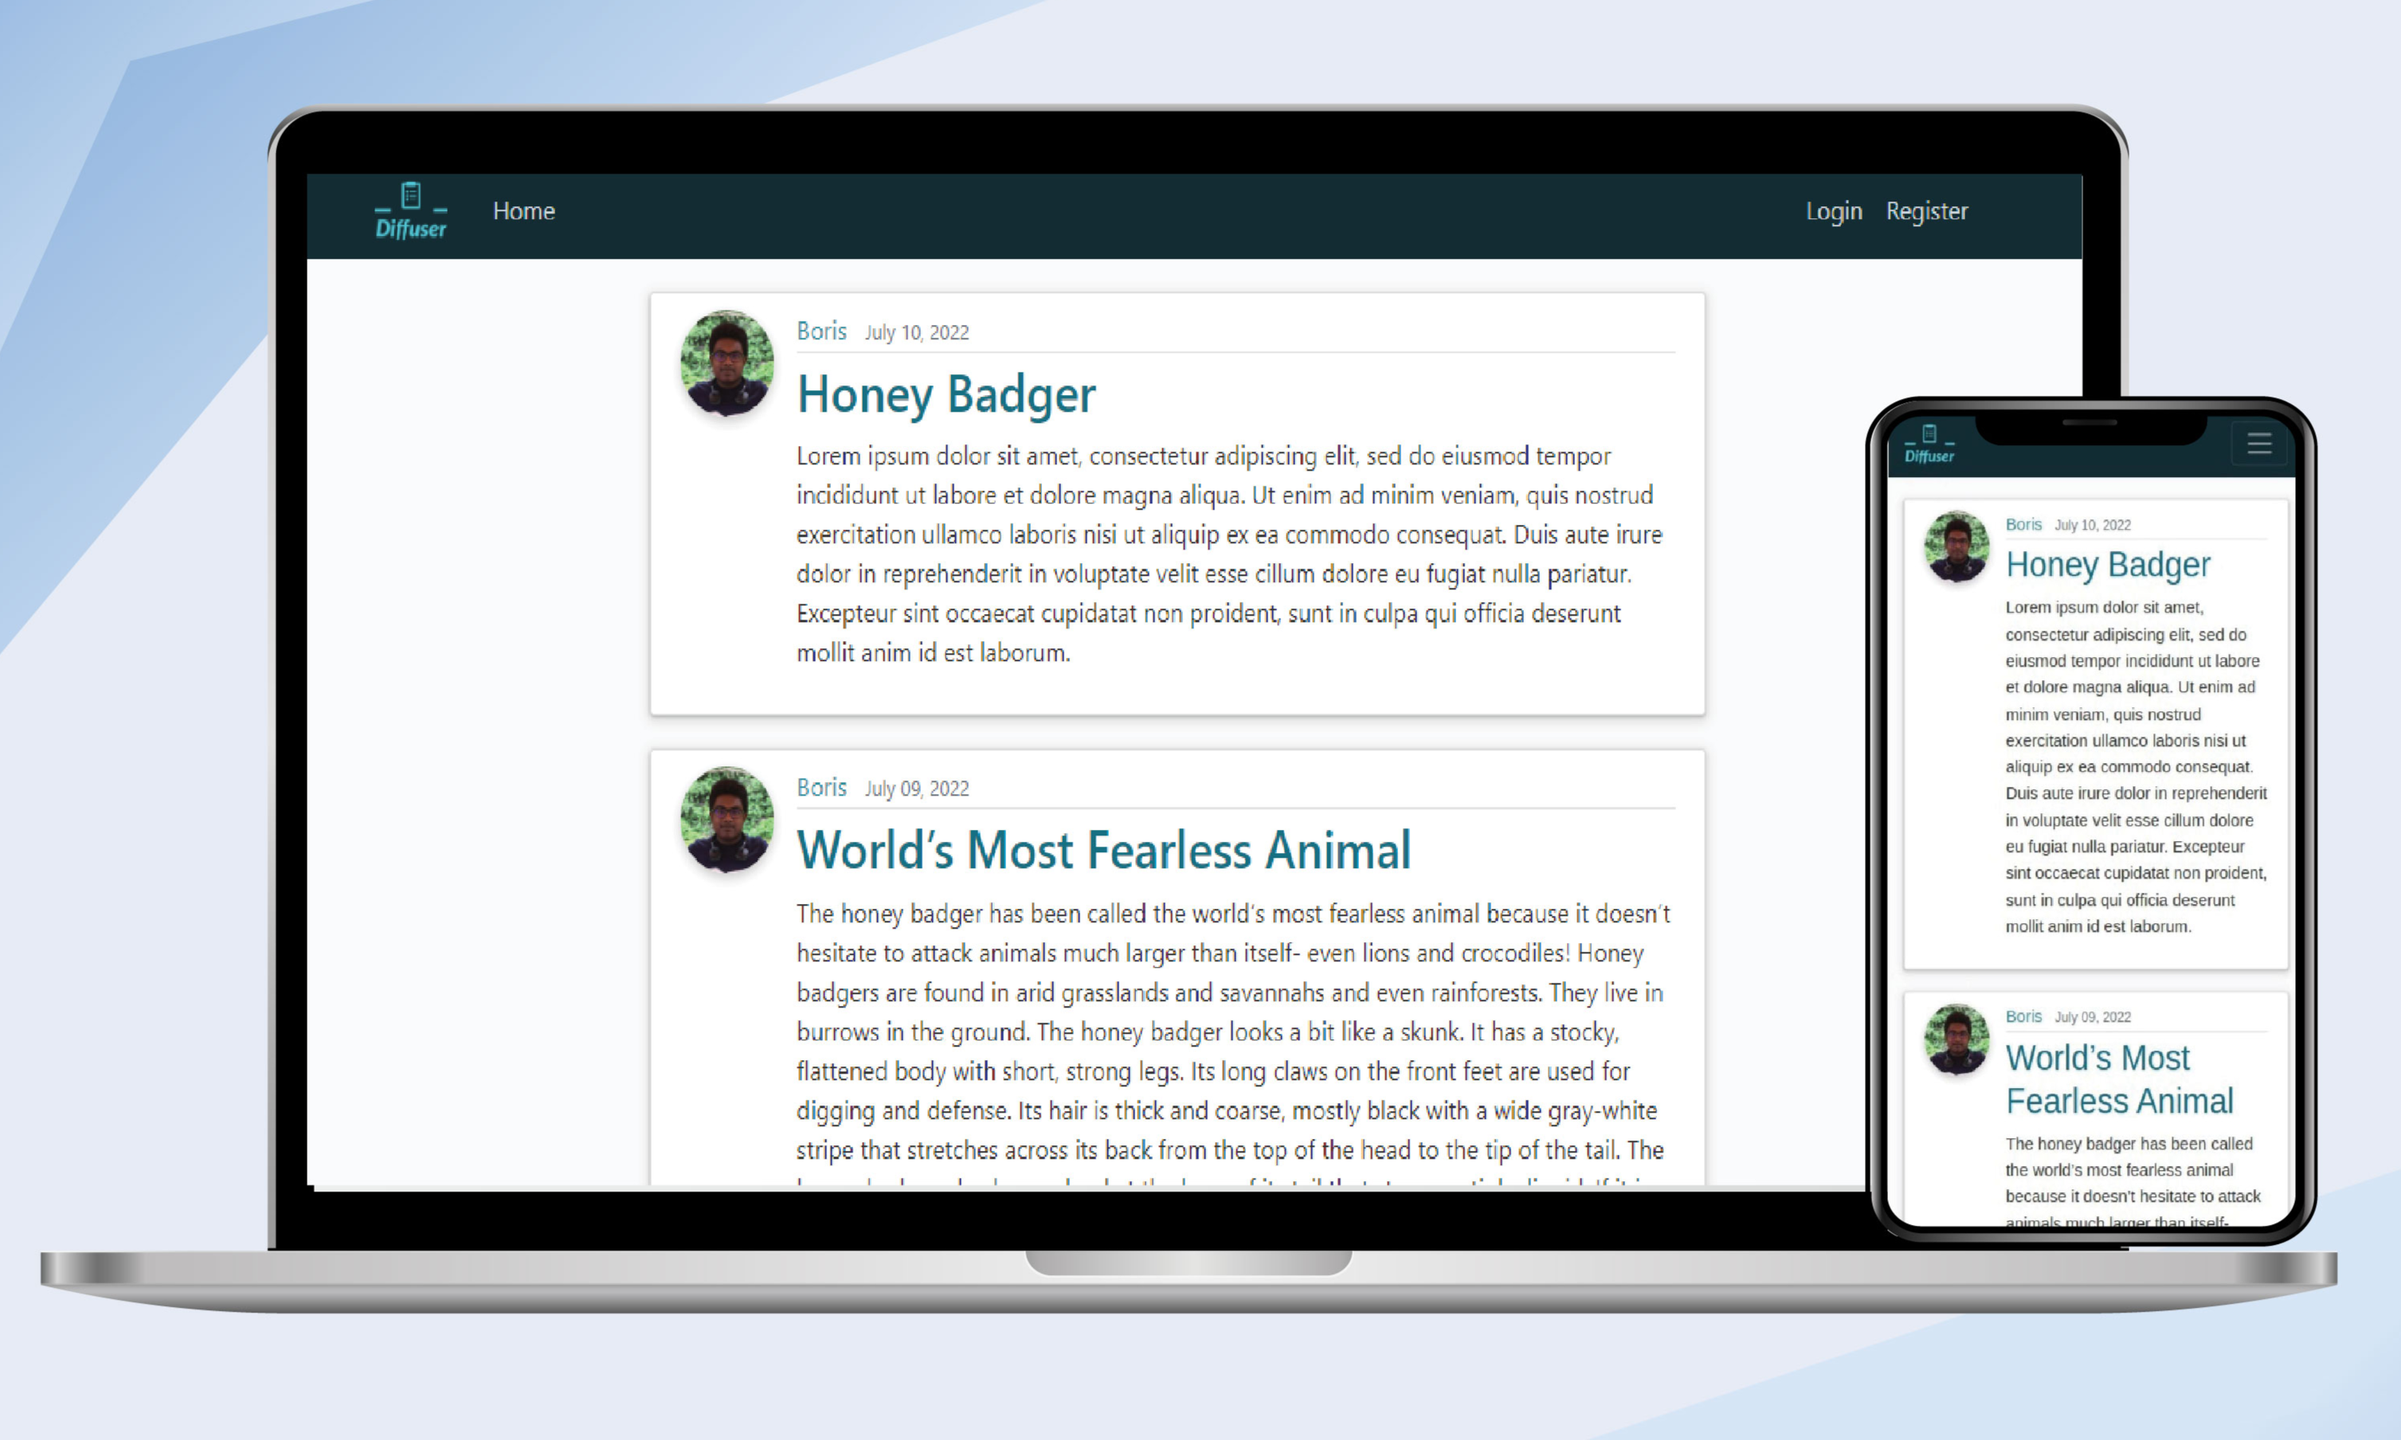
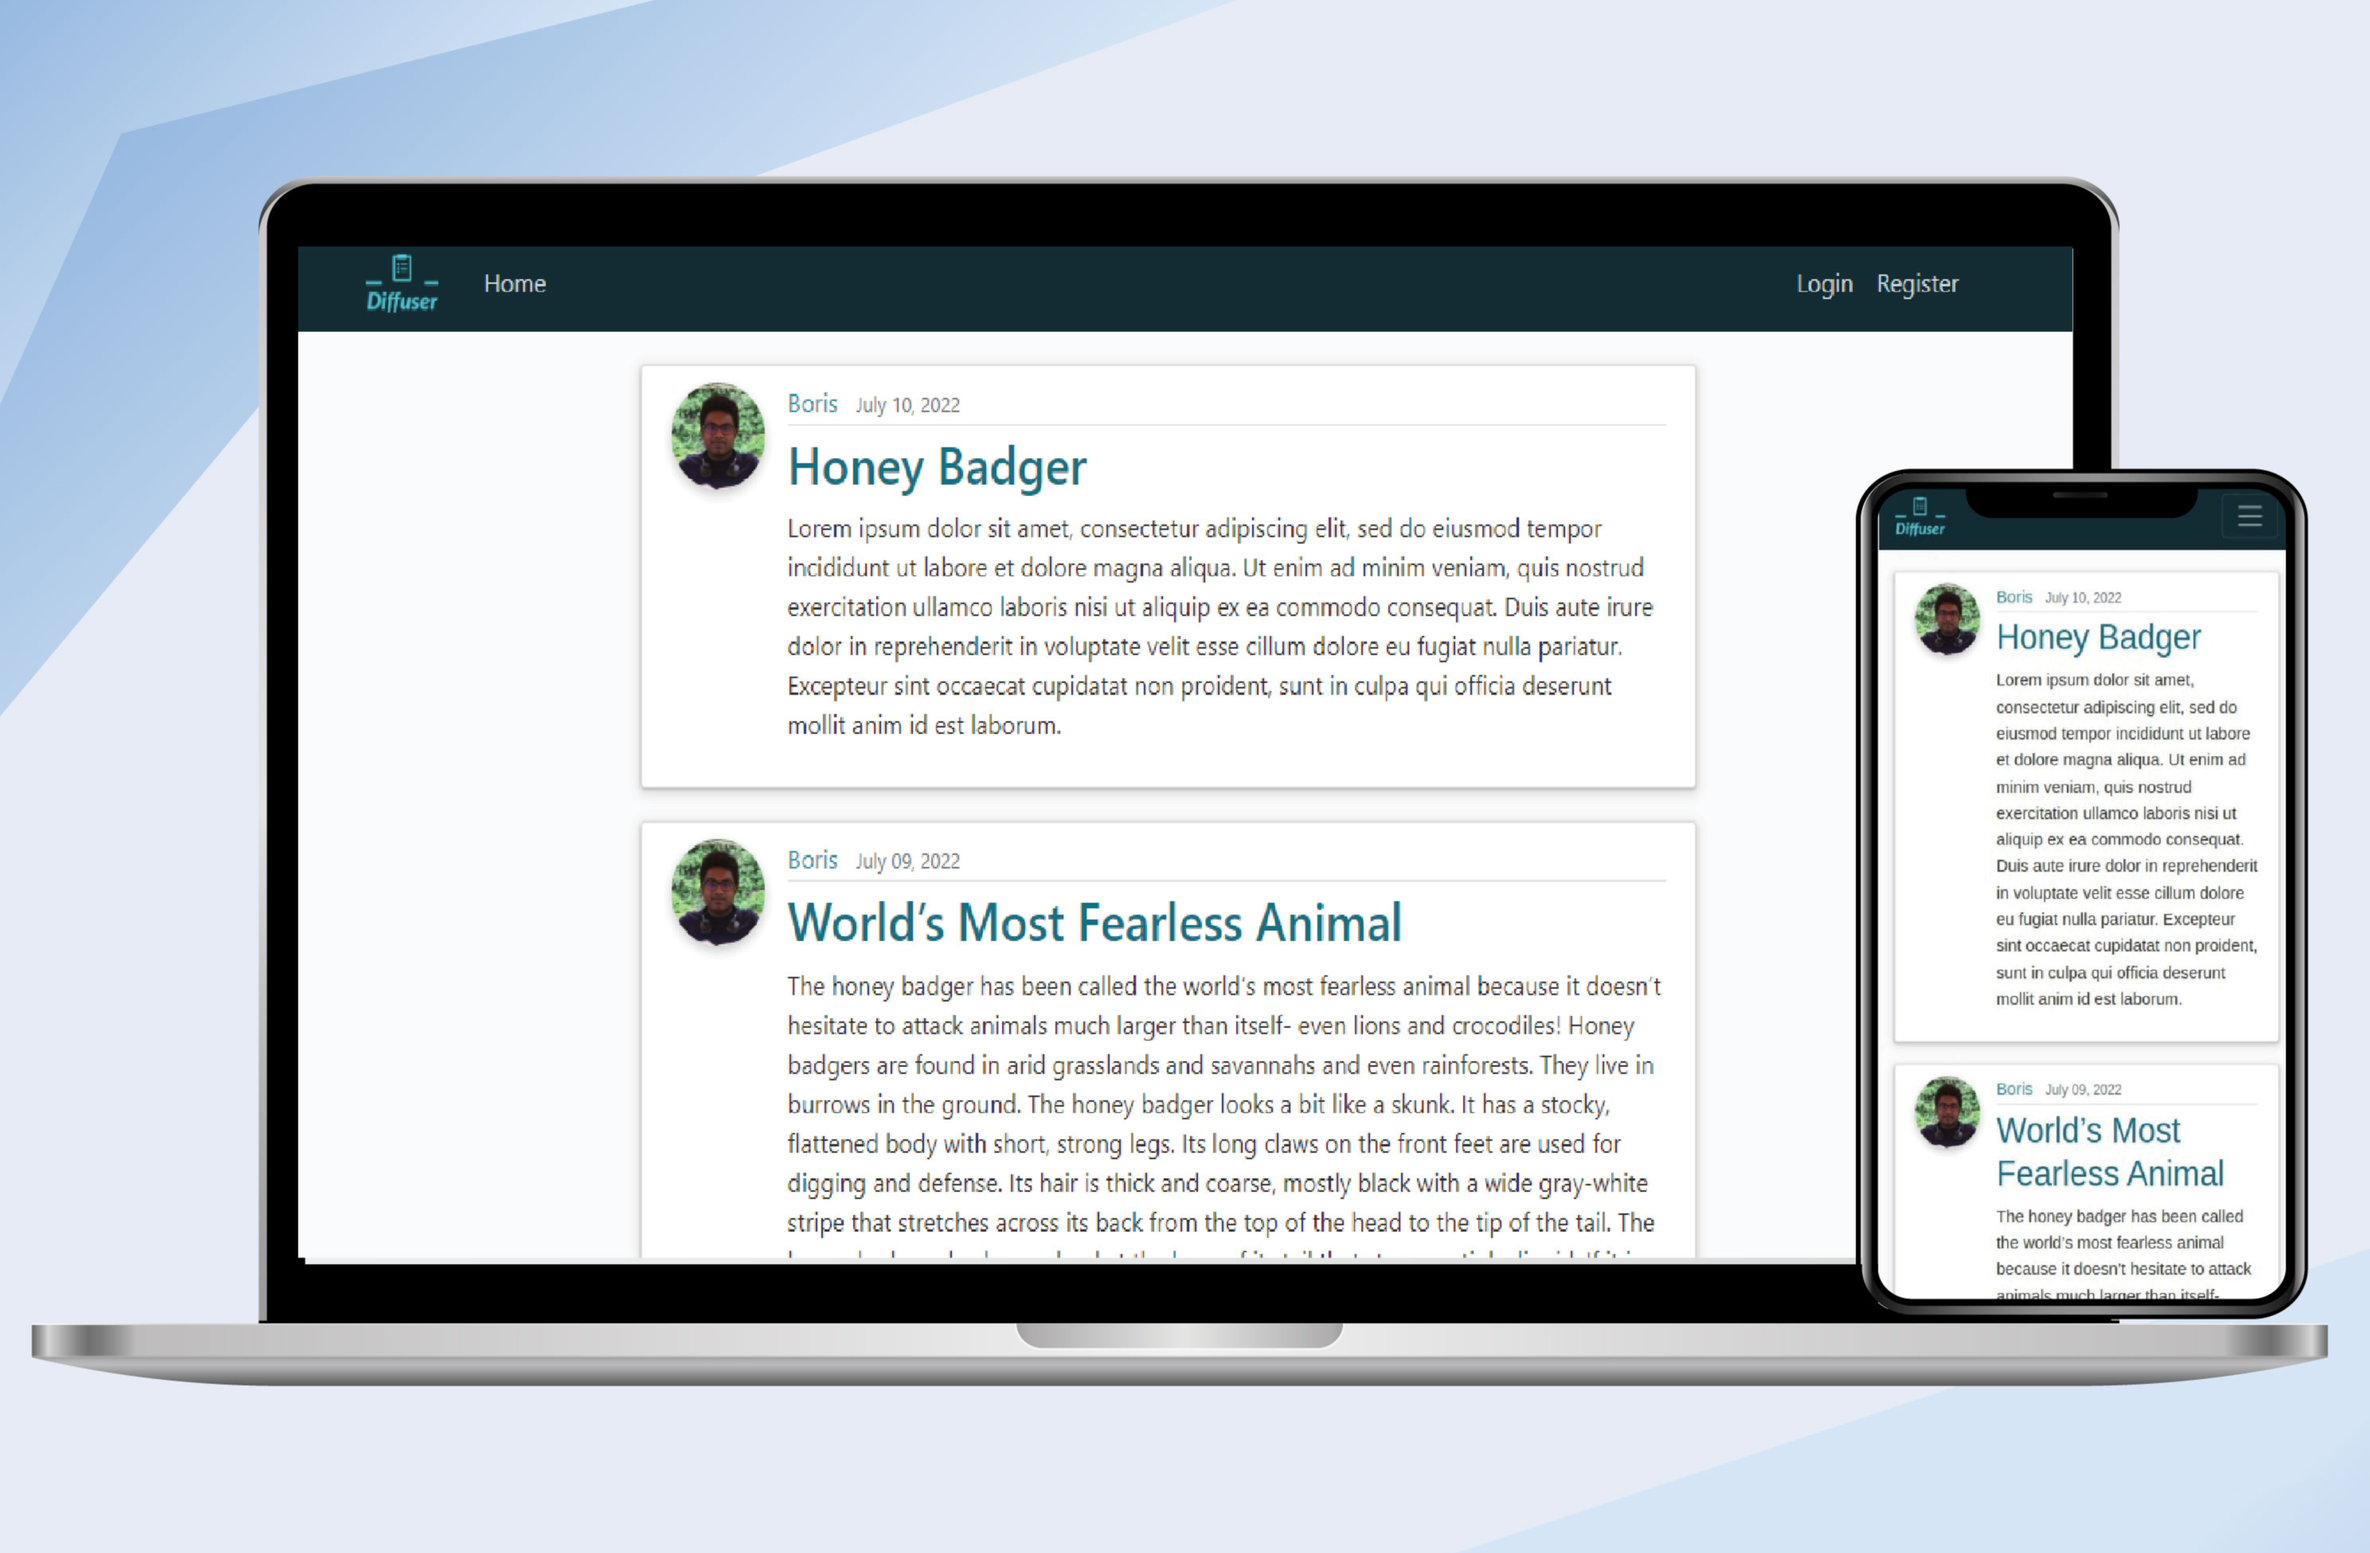
made project section reponsive

Changed region(s): [[0.0, 0.0, 1.0, 0.9292], [0.0312, 0.3407, 0.0625, 0.4027], [0.0, 0.4027, 0.0312, 0.4646]]

diff --git a/public/css/project.css b/public/css/project.css
@@ -1,20 +1,29 @@
 .project-outer-div {
-  width: 35rem;
+  /* width: 35rem; */
+  width: 90%;
+
 }
 .project-div {
-  width: 35rem;
+  /* width: 35rem; */
   background: var(--clr-accent-100);
   border-radius: 9px;
   box-shadow: rgba(78, 186, 191, 0.4) 5px 5px, rgba(78, 186, 191, 0.3) 10px 10px, rgba(78, 186, 191, 0.2) 15px 15px, rgba(78, 186, 191, 0.1) 20px 20px, rgba(78, 186, 191, 0.05) 25px 25px;
 }
 
-
 /* background-image: linear-gradient(to right, #00dbde 0%, #fc00ff 100%); */
 
 .project-heading {
   color: var(--clr-accent-700);
-  font-weight: var(--fw-semi-bold);
-  opacity: 1.2;
+  /* font-weight: var(--fw-semi-bold); */
+  opacity: 1.5;
+  font-size: var(--fs-300);
+}
+
+.project-img {
+  box-shadow: rgba(9, 30, 66, 0.25) 0px 4px 8px -2px, rgba(9, 30, 66, 0.08) 0px 0px 0px 1px;  
+  max-width: 100%; 
+  border-radius: 7px; 
+  /* border: 2px solid var(--clr-accent-700); */
 }
 .project-info {
   color: var(--clr-info);
@@ -28,16 +37,6 @@
 }
 .iconify-redirect-icon:hover {
   color: var(--clr-accent-700);
-}
-
-.date-badge {
-  font-size: var(--fs-100);
-  color: white;
-  font-weight: var(--fw-semi-bold);
-  background-color: rgba(78, 186, 191, 0.6);
-  box-shadow: rgba(0, 0, 0, 0.15) 0px 2px 8px;  
-  border-radius: 7px;
-  padding: 7px;
 }
 
 .built-with-icons {
@@ -55,50 +54,141 @@
   color: rgba(255, 255, 255, 1.2);
 }
 
+.date-badge {
+  font-size: var(--fs-100);
+  color: white;
+  font-weight: var(--fw-semi-bold);
+  background-color: rgba(78, 186, 191, 0.6);
+  box-shadow: rgba(0, 0, 0, 0.15) 0px 2px 8px;  
+  border-radius: 7px;
+  padding: 7px;
+}
+
+.date-badge:hover {
+  background-color: rgba(78, 186, 191, 1);
+}
+
 .html-badge {
   background-color: rgba(231, 80, 40, 0.8);
+}
+
+.html-badge:hover {
+  background-color: rgba(231, 80, 40, 1);
 }
 
 .css-badge {
   background-color: rgba(42, 147, 201, 0.8);
 }
 
+.css-badge:hover {
+  background-color: rgba(42, 147, 201, 1);
+}
+
 .bootstrap-badge {
   background-color: rgba(121, 82, 179, 0.8);
+}
+
+.bootstrap-badge:hover {
+  background-color: rgba(121, 82, 179, 1);
 }
 
 .javascript-badge {
   background-color: rgba(245, 208, 50, 0.8);
 }
 
+.javascript-badge:hover {
+  background-color: rgba(245, 208, 50, 1);
+}
+
 .jquery-badge {
   background-color: rgba(88, 151, 189, 0.8);
+}
+
+.jquery-badge:hover {
+  background-color: rgba(88, 151, 189, 1);
 }
 
 .nodejs-badge {
   background-color: rgba(135, 201, 41, 0.8);
 }
 
+.nodejs-badge:hover {
+  background-color: rgba(135, 201, 41, 1);
+}
+
 .express-badge {
   background-color: rgba(33, 37, 41,0.8);
+}
+
+.express-badge:hover {
+  background-color: rgba(33, 37, 41,1);
 }
 
 .hbs-badge {
   background-color: rgba(240, 119, 43, 0.8);
 }
 
+.hbs-badge:hover {
+  background-color: rgba(240, 119, 43, 1);
+}
+
 .django-badge {
   background-color: rgba(12, 75, 51, 0.8);
+}
+
+.django-badge:hover {
+  background-color: rgba(12, 75, 51, 1);
 }
 
 .jinja-badge {
   background-color: rgba(231, 80, 40, 0.8);
 }
 
+.jinja-badge:hover {
+  background-color: rgba(231, 80, 40, 1);
+}
+
 .chartjs-badge {
   background-color: rgba(246, 113, 116, 0.8);
 }
 
+.chartjs-badge:hover {
+  background-color: rgba(246, 113, 116, 1);
+}
+
 .sqlite-badge {
   background-color: rgba(11, 125, 203, 0.8);
+}
+
+.sqlite-badge:hover {
+  background-color: rgba(11, 125, 203, 1);
+}
+
+/* media query */
+@media (max-width: 1200px) {}
+
+@media (max-width: 993px) {
+  .project-outer-div {
+    width: 65%;
+  }
+}
+
+@media (max-width: 945px) {}
+
+@media (max-width: 780px) {
+  .project-outer-div {
+    width: 85%;
+  }
+}
+
+@media (max-width: 550px) {
+  .project-outer-div {
+    width: 90%;
+  }
+}
+
+@media (max-height: 820px) {
+  .project-outer-div {
+    width: 90%;
+  }
 }
